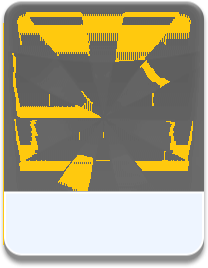
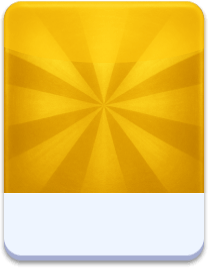
Player Migrated added result animations

diff --git a/LudoClient/Popups/Results.xaml b/LudoClient/Popups/Results.xaml
@@ -7,7 +7,8 @@
     <Grid VerticalOptions="Fill" HorizontalOptions="Fill" >
         <Image Source="spinner_bk_red_glow.png" Margin="-100" />
         <Image Source="strips_big.png" Aspect="AspectFill"  VerticalOptions="Fill" HorizontalOptions="Fill"/>
-
+        <Image Source="result_celibration.gif" IsAnimationPlaying="True" Aspect="AspectFill"  VerticalOptions="Fill" HorizontalOptions="Fill"/>
+        
         <Grid VerticalOptions="Fill" HorizontalOptions="Fill" RowDefinitions=".5*,8*,.5*" ColumnDefinitions=".4*,8*,.4*">
             <StackLayout Grid.Row="1" Grid.Column="1" VerticalOptions="Start" HorizontalOptions="Fill">
                 <Image Margin="0,100,0,0"  Source="ttl_results.png" VerticalOptions="End" HorizontalOptions="Fill"/>
